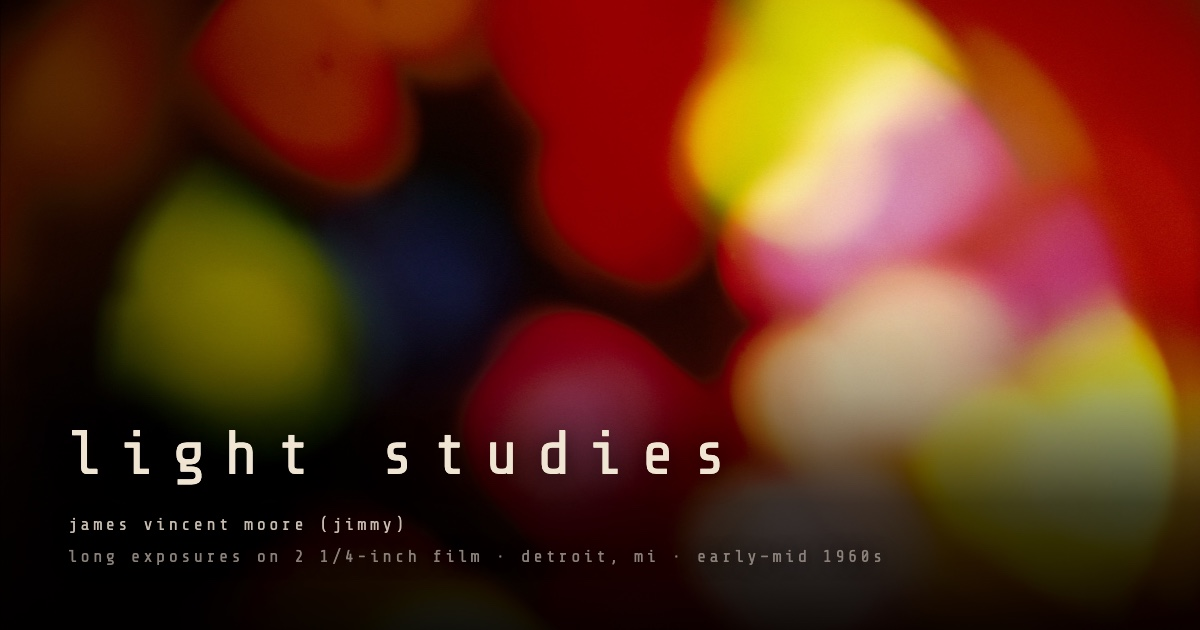
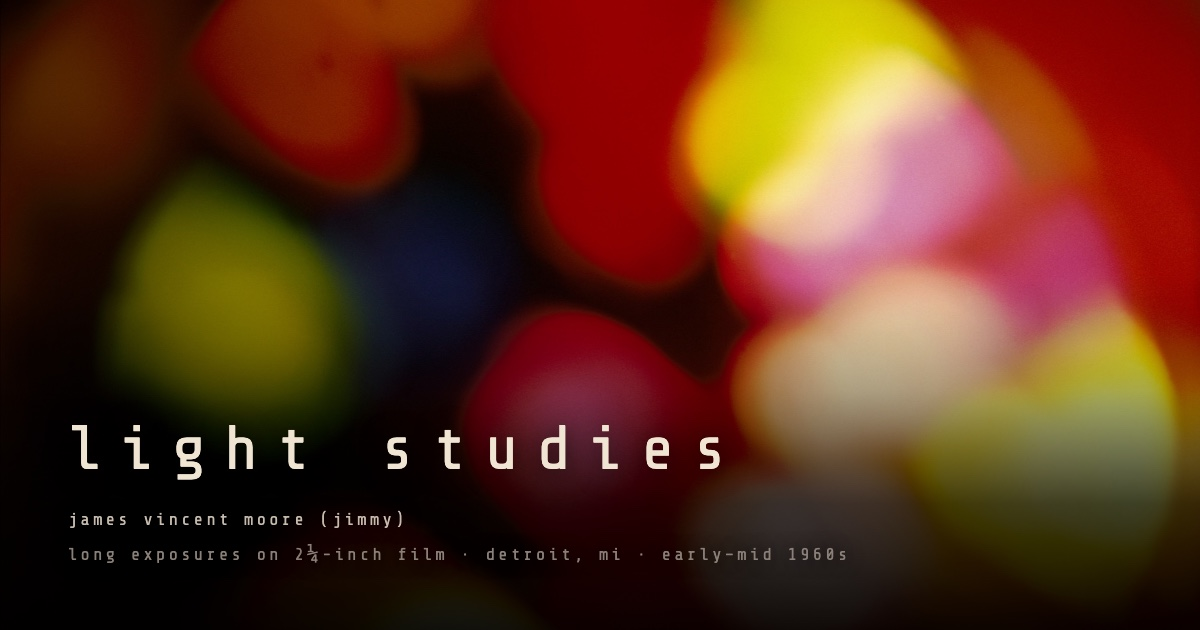
Set the fraction as ¼ rather than three characters
Share Tech Mono has no such glyph, which is why it was spelled out. A
span naming monospace fallbacks gets the single character without
dropping into a proportional face and breaking the line's even advance.
The share card carries the same rule, so og.jpg is re-rendered.

diff --git a/jimmy/index.html b/jimmy/index.html
@@ -9,9 +9,9 @@
 <link rel="icon" href="favicon-32.png" sizes="32x32" type="image/png">
 <link rel="apple-touch-icon" href="apple-touch-icon.png">
 
-<meta name="description" content="Five long exposures on 2 1/4-inch film by James Vincent Moore — abstract light play, Detroit, shot in the early to mid 1960s.">
+<meta name="description" content="Five long exposures on 2¼-inch film by James Vincent Moore — abstract light play, Detroit, shot in the early to mid 1960s.">
 <meta property="og:title" content="Light Studies">
-<meta property="og:description" content="Five long exposures on 2 1/4-inch film by James Vincent Moore — abstract light play, Detroit, early to mid 1960s.">
+<meta property="og:description" content="Five long exposures on 2¼-inch film by James Vincent Moore — abstract light play, Detroit, early to mid 1960s.">
 <meta property="og:image" content="https://todd.up.railway.app/jimmy/og.jpg">
 <meta property="og:image:width" content="1200">
 <meta property="og:image:height" content="630">
@@ -226,6 +226,13 @@
   #plate-text .t { color: #e8dcc9; letter-spacing: 0.34em; }
   #plate-text .s { color: #978d82; font-size: 10px; }
 
+  /* Share Tech Mono has no ¼. Name monospace fallbacks that do, so the one
+     borrowed glyph still keeps the line's even advance. */
+  .frac {
+    font-family: Menlo, Consolas, 'DejaVu Sans Mono', monospace;
+    font-size: 1.15em;
+  }
+
   /* him, above his own work — same treatment as the row, but left in the
      slide's own 5:4 landscape rather than cropped square */
   #portrait {
@@ -380,7 +387,7 @@
     <img src="thumbs/jimmy.jpg" alt="" decoding="async">
   </button>
   <div class="t">light studies</div>
-  <div class="s">james vincent moore (jimmy) · 2 1/4-inch film · detroit, mi · early–mid 1960s</div>
+  <div class="s">james vincent moore (jimmy) · 2<span class="frac">¼</span>-inch film · detroit, mi · early–mid 1960s</div>
 </div>
 
 <nav id="rail" aria-label="Photographs"></nav>

diff --git a/jimmy/og-card.html b/jimmy/og-card.html
@@ -53,6 +53,9 @@
   }
 
   .s span { color: #8a8078; }
+
+  /* Share Tech Mono has no ¼ — borrow it from a monospace fallback */
+  .frac { font-family: Menlo, Consolas, 'DejaVu Sans Mono', monospace; font-size: 1.15em; }
 </style>
 </head>
 <body>
@@ -63,7 +66,7 @@
       <div class="t">light studies</div>
       <div class="s">
         james vincent moore (jimmy)<br>
-        <span>long exposures on 2 1/4-inch film · detroit, mi · early–mid 1960s</span>
+        <span>long exposures on 2<span class="frac">¼</span>-inch film · detroit, mi · early–mid 1960s</span>
       </div>
     </div>
   </div>

diff --git a/jimmy/README.md b/jimmy/README.md
@@ -1,6 +1,6 @@
 # `jimmy/` — Light Studies
 
-Five long exposures on 2 1/4-inch film by James Vincent Moore (Jimmy),
+Five long exposures on 2¼-inch film by James Vincent Moore (Jimmy),
 Detroit, early to mid 1960s. Served at
 [/jimmy](https://todd.up.railway.app/jimmy).
 
@@ -139,8 +139,10 @@ but the card.
 - Clicking anywhere during the opening skips to the menu.
 - Under `prefers-reduced-motion` the bursts and the fly-in are dropped; the
   resting photograph and the row appear directly.
-- `1/4` in the credit is deliberately spelled out rather than set as `¼` —
-  Share Tech Mono has no `¼`, and the fallback face breaks the line's rhythm.
+- The `¼` in the credit is wrapped in `<span class="frac">`. Share Tech Mono
+  has no such glyph, so that span names monospace fallbacks that do — set it
+  bare and it drops into a proportional face and breaks the line's even
+  advance. `og-card.html` carries the same rule for the same reason.
 - The credit sits beside the row above 900px and moves above it below that,
   where there is no longer room for both. Lengthening it means rechecking
   those two widths.

diff --git a/README.md b/README.md
@@ -74,7 +74,7 @@ trailing slash. They do not affect this page's own favicon.
 
 ## `jimmy/`
 
-Five long exposures on 2 1/4-inch film by James Vincent Moore, Detroit, early
+Five long exposures on 2¼-inch film by James Vincent Moore, Detroit, early
 to mid 1960s — a full-bleed gallery at
 [/jimmy](https://todd.up.railway.app/jimmy). Hand-written here, unlike
 `jshimron/`, so it is safe to edit in place.
